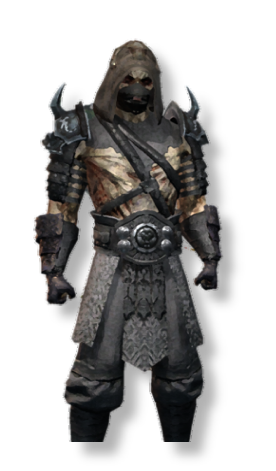
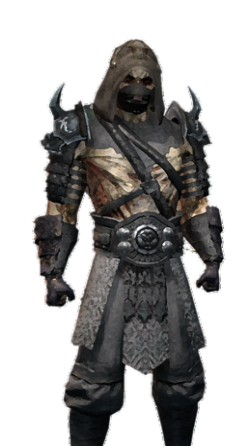
margin improvement, images

diff --git a/client/src/components/pages/Home.js b/client/src/components/pages/Home.js
@@ -15,7 +15,7 @@ const Home = () => {
 
     const { userData, setUserData } = useContext(UserContext)
     const [builds, setBuilds] = useState([])
-    const [searchClass, setSearchClass] = useState()
+    // const [users, setUsers] = useState([])
 
     const getAllBuilds = () => {
         axios.get(
@@ -31,6 +31,21 @@ const Home = () => {
 
     }
 
+    //For future implementation, add username on cards
+    // const getUsernames = () => {
+    //     axios
+    //         .get(`/users/all`,
+    //             {
+    //                 headers: {
+    //                     "x-auth-token": localStorage.getItem("auth-token")
+    //                 }
+    //             })
+    //         .then((usersInfo) => {
+    //             setUsers(usersInfo.data)
+    //             console.log(users.data);
+    //         })
+    // }
+
     // Definition of state for Input search
     const [search, setSearch] = useState({
         name: "",
@@ -40,8 +55,8 @@ const Home = () => {
     const buildSearch = (e) => {
         setSearch({ ...search, name: e.target.value });
     };
-
     const matchingBuilds = builds.filter(function (build) {
+        console.log(builds);
         if (search.name.length < 0) {
             return builds
         } else if (build.title.includes(search.name)) {
@@ -52,24 +67,26 @@ const Home = () => {
 
     useEffect(() => {
         getAllBuilds()
+        // getUsernames()
     }, [])
+
 
     return (
         <div>
             {userData.user
                 ? <div>
-                    <Jumbo text={"Last created builds"} />
+                    <Jumbo text={"Last created builds"} comment="Created by the community" />
                     <form>
                         <div className="input-group">
                             <input
                                 onChange={buildSearch}
                                 type="text"
-                                className="form-control ml-2 mr-2"
+                                className="form-control ml-4 mr-4"
                                 placeholder="Search by title" />
                         </div>
                     </form>
                     <SnackbarProvider maxSnack={3}>
-                        <div className="row col-12">
+                        <div className="row col-md-auto justify-content-center">
                             {
                                 matchingBuilds.map((build) => (
                                     <BuildCard noEdit="yes" build={build} key={build._id}></BuildCard>

diff --git a/routes/build-routes.js b/routes/build-routes.js
@@ -8,7 +8,7 @@ const Build = require("../models/buildModel")
 router.post("/", auth, async (req, res) => {
 
     try {
-        const buildToCreate = { userId, title, role, race, iclass, gears, skills, stats, c_points, calculs, likes, comments } = req.body;
+        const buildToCreate = { userId, date, title, role, race, iclass, gears, skills, stats, c_points, calculs, likes, comments } = req.body;
         if (!title)
             return res
                 .status(400)
@@ -61,7 +61,7 @@ router.patch("/:id", auth, async (req, res) => {
             .status(400)
             .json({ msg: "No build found with this ID that belongs to the current user." });
 
-    let buildToUpdate = { title, role, race, iclass, food, stats, gears } = req.body
+    let buildToUpdate = { title, date, role, race, iclass, food, stats, gears } = req.body
 
     const patchedBuild = await Build.findByIdAndUpdate(req.params.id, buildToUpdate, { new: true })
 
@@ -72,8 +72,6 @@ router.patch("/:id", auth, async (req, res) => {
 // UPDATE A GEAR - GEARS IS INITIALY AN EMPTY ARRAY
 router.patch("/:id/:gearId", auth, async (req, res) => {
     const build = await Build.findOne({ _id: req.params.id })
-
-    // const completeGearList = build.gears
 
     if (req.params.gearId === "new") {
         build.gears.push(req.body)

diff --git a/client/src/components/Jumbo.js b/client/src/components/Jumbo.js
@@ -5,6 +5,7 @@ import CreateBuild from './pages/CreateBuild'
 
 const BannerBgImg1 = require(`../utils/images/jumbo.png`)
 
+
 const Jumbo = (props) => {
     return (
 
@@ -12,7 +13,7 @@ const Jumbo = (props) => {
             <div className="container">
                 <h1 className="display-4 text-light mx-auto" id="banner-text">{props.text}</h1>
                 {props.action ? <div className="row float-right">
-                    <h2 className="text-light text-right mr-3">{props.action}</h2>
+                    <h2 className="text-light text-right mr-3" >{props.action}</h2>
                     <Link to={props.link}>
                         <AddCircleRoundedIcon />
                     </Link>

diff --git a/client/src/components/pages/ViewBuilds.js b/client/src/components/pages/ViewBuilds.js
@@ -39,10 +39,10 @@ export default function ImgMediaCard() {
     return (
         <div>
             <Jumbo text={`My Builds (${userBuilds.length})`} action="Create a new build" link="/create-build" />
-            <div className="container m-1">
+            <div className="container">
                 <SnackbarProvider maxSnack={3}>
                     <ConfirmProvider>
-                        <div className="row col-12">
+                        <div className="row col-12-md-auto justify-content-center">
                             {
                                 userBuilds.map((build) => (
                                     <BuildCard build={build} key={build._id}></BuildCard>

diff --git a/client/src/components/BuildCard.js b/client/src/components/BuildCard.js
@@ -115,7 +115,7 @@ export default function ImgMediaCard(props) {
 
     return (
 
-        <div className="card text-white col-3 m-2">
+        <div className="card text-white col-lg-3 col-md-6 col-sm-12 m-2">
             <img className="card-img" src={props.build.iclass ? require(`../utils/images/${props.build.iclass}Card.jpg`) : "https://images.mmorpg.com/images/heroes/news/43780.jpg"} style={imgStyle} alt="Card image" />
             <div className="card-img-overlay">
                 <div className="row pull-right">

diff --git a/client/src/components/pages/ViewOneBuild.js b/client/src/components/pages/ViewOneBuild.js
@@ -338,7 +338,7 @@ const ViewOneBuild = () => {
         < div >
             <Jumbo text={build.title} comment={build.comments} />
 
-            <div className="row">
+            <div className="row col-md-auto justify-content-center">
                 <img className="classImg col-lg-3 col-md-2 col-sm-2" src={build.iclass ? require(`../../utils/images/${build.iclass}.png`) : "https://www.eso-gold.com/images/game_left/the-elder-scrolls-online.png"} style={imgStyle} />
 
 

diff --git a/client/src/components/SimpleGears.js b/client/src/components/SimpleGears.js
@@ -174,7 +174,7 @@ const SimpleGears = (props) => {
                 <h1>Gears selection</h1>
             </div>
 
-            <div className="row">
+            <div className="row col-12-md-auto justify-content-center">
                 <div className="col-lg-4 col-md-12 col-sm-12 col-xs-12 m-0 p-0" gears>
                     <div className="row col-12 offset-1 mb-1 p-0 m-0">
                         <div className="card-group offset-4 col-4">

diff --git a/client/src/components/pages/CreateBuild.js b/client/src/components/pages/CreateBuild.js
@@ -196,7 +196,7 @@ const CreateBuild = () => {
 
 
 
-                    <div className="row">
+                    <div className="row col-12-md-auto justify-content-center">
 
                         <img className="classImg col-lg-4 col-md-4 col-sm-2" src={iclass ? require(`../../utils/images/${iclass}.png`) : "https://www.eso-gold.com/images/game_left/the-elder-scrolls-online.png"} style={imgStyle} />
 

diff --git a/models/buildModel.js b/models/buildModel.js
@@ -62,6 +62,8 @@ const calcul = new Schema({
 const buildSchema = new Schema({
     // coming from UserContext
     userId: { type: String, require: true },
+    // `Date.now()` returns the current unix timestamp as a number
+    date: { type: Date, default: Date.now },
     // coming from inputs
     title: { type: String, required: true, minlength: 5, maxlength: 30 },
     role: { type: String },

diff --git a/routes/userRouter.js b/routes/userRouter.js
@@ -156,4 +156,13 @@ router.get("/", auth, async (req, res) => {
     });
 })
 
+// route used to get usernames
+router.get("/all", auth, async (req, res) => {
+    const user = await User.find({});
+    res.json({
+        username: user.username,
+        id: user._id
+    });
+})
+
 module.exports = router
